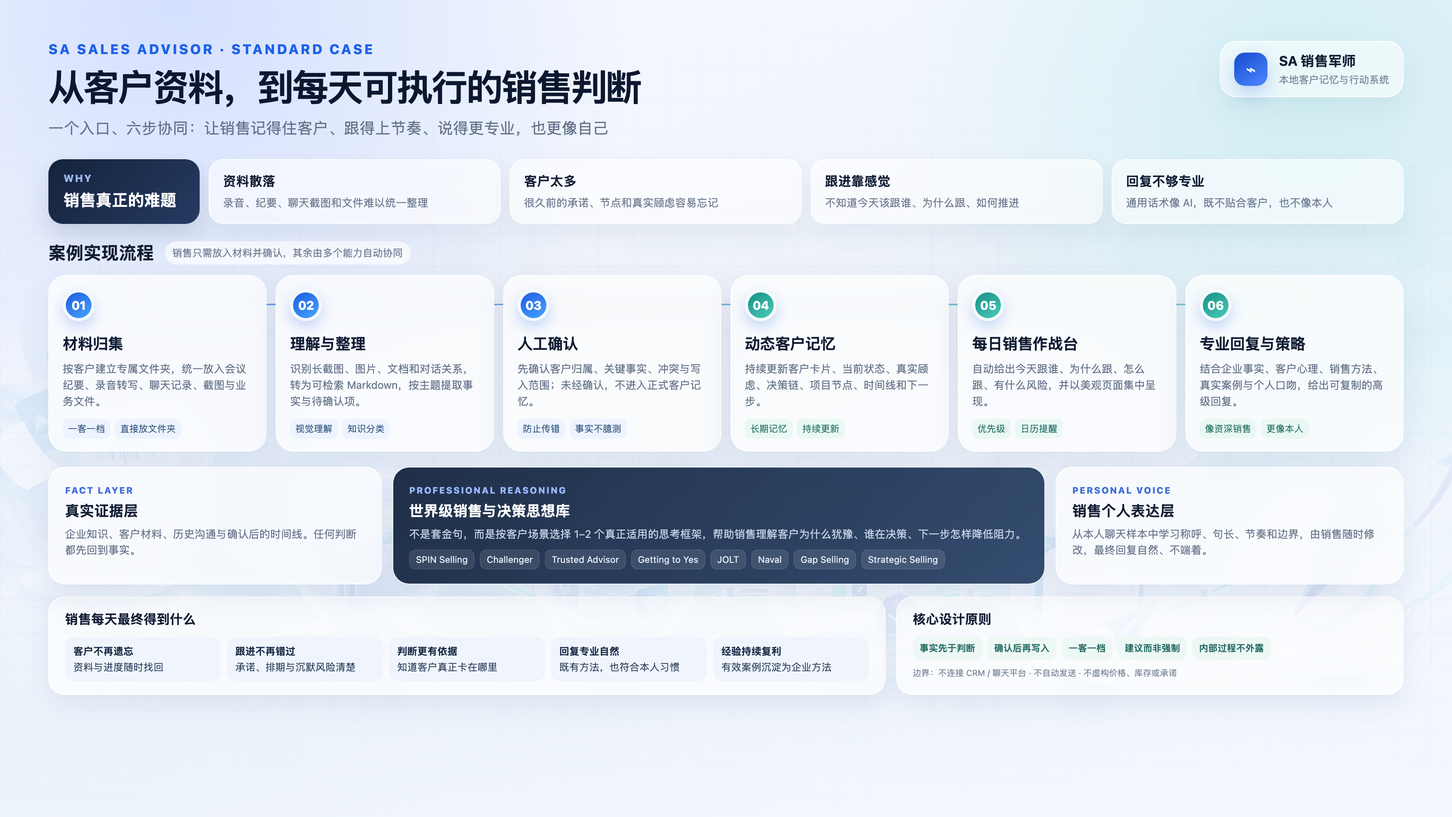
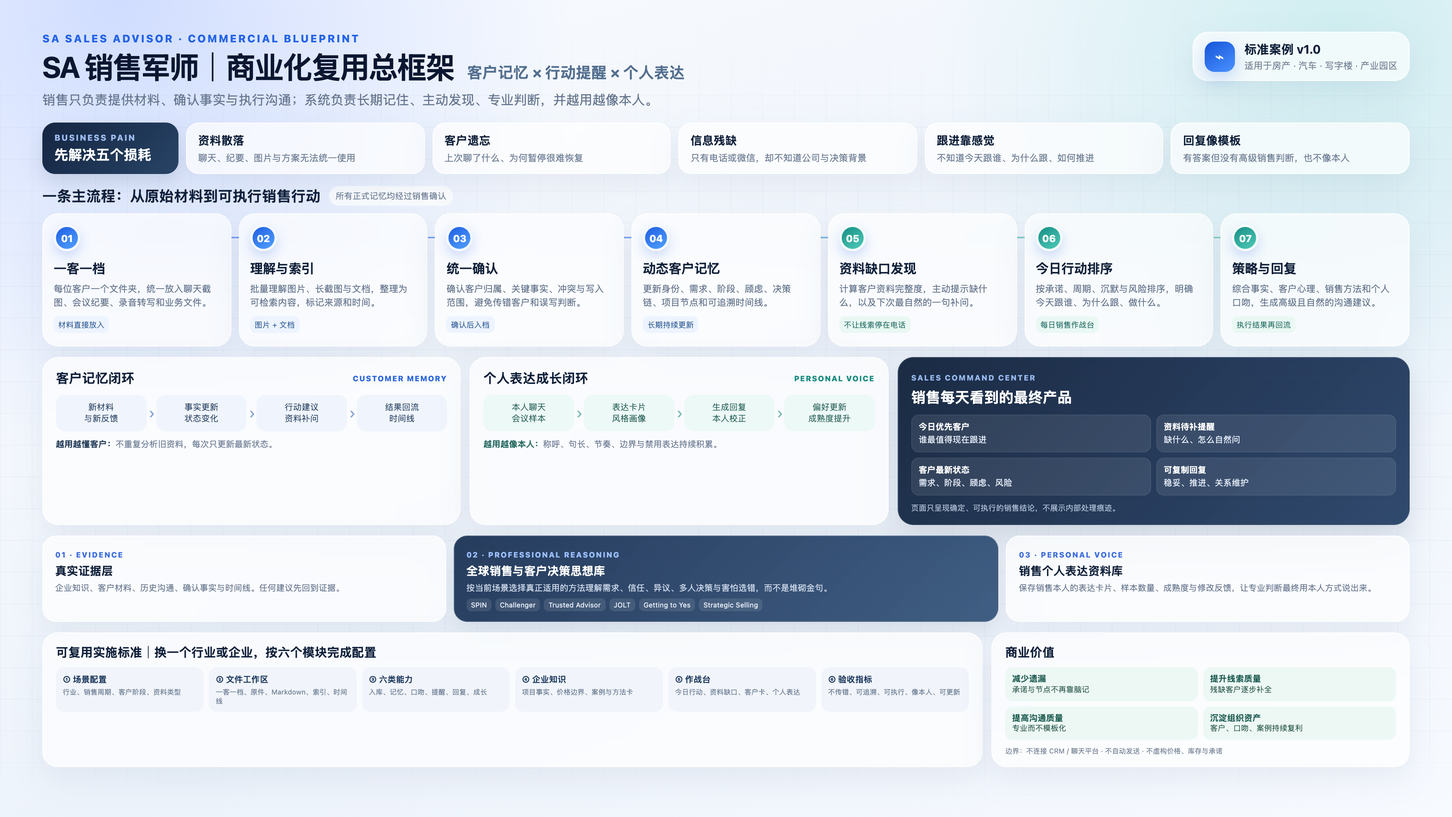
docs: upgrade commercial sales advisor blueprint

diff --git a/case-assets/SA销售军师-总框架图.html b/case-assets/SA销售军师-总框架图.html
@@ -3,80 +3,68 @@
 <head>
 <meta charset="utf-8">
 <meta name="viewport" content="width=device-width,initial-scale=1">
-<title>SA销售军师｜总框架图</title>
+<title>SA销售军师｜商业化复用总框架</title>
 <style>
-  *{box-sizing:border-box}html,body{margin:0;width:100%;height:100%;overflow:hidden}
-  body{font-family:-apple-system,BlinkMacSystemFont,"SF Pro Display","PingFang SC","Microsoft YaHei",sans-serif;color:#111d34;background:#eef3fb}
-  .page{position:relative;width:1920px;height:1080px;padding:54px 64px 46px;overflow:hidden;background:radial-gradient(circle at 12% 0%,rgba(109,147,255,.25),transparent 31%),radial-gradient(circle at 90% 10%,rgba(77,219,207,.18),transparent 27%),linear-gradient(155deg,#f8faff 0%,#edf3fb 53%,#f6f9ff 100%)}
-  .art{position:absolute;inset:270px -80px -120px;background:url('./framework-background.png') center bottom/cover no-repeat;opacity:.12;filter:saturate(.75)}
-  .mesh{position:absolute;inset:0;background-image:linear-gradient(rgba(71,94,132,.035) 1px,transparent 1px),linear-gradient(90deg,rgba(71,94,132,.035) 1px,transparent 1px);background-size:44px 44px;mask-image:linear-gradient(to bottom,transparent 2%,#000 22%,#000 80%,transparent)}
-  .content{position:relative;z-index:2}
-  .header{display:flex;justify-content:space-between;align-items:flex-start;margin-bottom:27px}
-  .eyebrow{font-size:18px;font-weight:800;letter-spacing:.16em;color:#1e61e8;margin-bottom:12px}
-  h1{font-size:48px;line-height:1.12;letter-spacing:-.045em;margin:0;color:#0d1830}
-  .subtitle{font-size:20px;color:#65738b;margin-top:14px;letter-spacing:.01em}
-  .brand{display:flex;align-items:center;gap:15px;padding:13px 18px;border:1px solid rgba(255,255,255,.9);border-radius:22px;background:rgba(255,255,255,.55);box-shadow:0 16px 40px rgba(50,78,124,.08);backdrop-filter:blur(20px)}
-  .brandmark{display:grid;place-items:center;width:44px;height:44px;border-radius:14px;background:linear-gradient(145deg,#164bce,#4e88ff);color:white;font-size:22px;box-shadow:0 10px 24px rgba(35,94,225,.25)}
-  .brand b{display:block;font-size:18px}.brand span{display:block;font-size:13px;color:#7a879c;margin-top:3px}
-  .problembar{display:grid;grid-template-columns:200px repeat(4,1fr);gap:12px;margin-bottom:22px}
-  .problemtitle{padding:17px 20px;border-radius:19px;color:white;background:linear-gradient(135deg,#15233c,#253b61);box-shadow:0 14px 30px rgba(25,44,76,.15)}
-  .problemtitle small{display:block;color:#9eb9ef;font-weight:800;letter-spacing:.12em}.problemtitle b{display:block;font-size:21px;margin-top:6px}
-  .problem{padding:16px 18px;border:1px solid rgba(255,255,255,.95);border-radius:19px;background:rgba(255,255,255,.58);box-shadow:0 13px 34px rgba(47,73,115,.07);backdrop-filter:blur(16px)}
-  .problem b{font-size:17px}.problem p{font-size:14px;line-height:1.5;color:#6d7990;margin:6px 0 0}
-  .flowtitle{display:flex;align-items:center;gap:14px;margin:0 0 13px}.flowtitle h2{font-size:23px;margin:0}.flowtitle span{font-size:13px;color:#728098;padding:6px 10px;border-radius:999px;background:rgba(255,255,255,.68)}
-  .flow{display:grid;grid-template-columns:repeat(6,1fr);gap:12px;position:relative;margin-bottom:20px}
-  .flow:before{content:"";position:absolute;left:7%;right:7%;top:38px;height:2px;background:linear-gradient(90deg,#2c67ee,#2bb7a9);opacity:.65}
-  .step{position:relative;min-height:220px;padding:18px 18px 16px;border:1px solid rgba(255,255,255,.95);border-radius:24px;background:rgba(255,255,255,.72);box-shadow:0 17px 42px rgba(41,70,117,.09);backdrop-filter:blur(18px)}
-  .stepnum{position:relative;display:grid;place-items:center;width:42px;height:42px;margin-bottom:16px;border-radius:50%;color:white;font-size:16px;font-weight:800;background:linear-gradient(145deg,#1d5be0,#48a5ff);box-shadow:0 8px 18px rgba(39,97,225,.24);border:4px solid rgba(255,255,255,.95)}
-  .step:nth-child(n+4) .stepnum{background:linear-gradient(145deg,#168f86,#4acbb9)}
-  .step h3{font-size:20px;margin:0 0 8px;letter-spacing:-.02em}.step p{font-size:14px;line-height:1.55;color:#65738a;margin:0}.tags{display:flex;flex-wrap:wrap;gap:6px;margin-top:12px}.tag{font-size:12px;color:#355681;border-radius:8px;padding:5px 7px;background:#edf4ff}.step:nth-child(n+4) .tag{color:#287166;background:#eaf8f4}
-  .engine{display:grid;grid-template-columns:1.15fr 2.25fr 1.2fr;gap:14px;margin-bottom:16px}
-  .enginecard{padding:19px 21px;border-radius:22px;border:1px solid rgba(255,255,255,.96);background:rgba(255,255,255,.67);box-shadow:0 15px 36px rgba(44,70,112,.08);backdrop-filter:blur(18px)}
-  .enginecard small{font-size:12px;font-weight:800;letter-spacing:.13em;color:#3d6cdc}.enginecard h3{font-size:19px;margin:6px 0 7px}.enginecard p{font-size:14px;line-height:1.5;color:#68758b;margin:0}.wisdom{background:linear-gradient(135deg,rgba(20,35,61,.94),rgba(36,62,99,.92));color:white}.wisdom small{color:#98b9ff}.wisdom h3{color:white}.wisdom p{color:#c5d2e5}.books{display:flex;flex-wrap:wrap;gap:7px;margin-top:10px}.book{padding:5px 8px;border-radius:8px;background:rgba(255,255,255,.1);font-size:12px;color:#e8effd;border:1px solid rgba(255,255,255,.08)}
-  .footergrid{display:grid;grid-template-columns:1.65fr 1fr;gap:14px}
-  .outcomes,.principles{padding:17px 21px;border-radius:21px;background:rgba(255,255,255,.67);border:1px solid rgba(255,255,255,.95);box-shadow:0 14px 32px rgba(41,67,108,.075)}
-  .outcomes h3,.principles h3{font-size:17px;margin:0 0 11px}.outcomelist{display:grid;grid-template-columns:repeat(5,1fr);gap:8px}.outcome{font-size:13px;line-height:1.4;padding:10px 11px;border-radius:12px;background:#f0f5fd;color:#30435f}.outcome b{display:block;color:#172944;margin-bottom:3px}
-  .principlelist{display:flex;flex-wrap:wrap;gap:7px}.principle{font-size:12px;padding:7px 9px;border-radius:9px;background:#edf8f4;color:#276c61;font-weight:700}.boundary{font-size:11px;color:#7b8799;margin-top:10px}
+*{box-sizing:border-box}html,body{margin:0;width:100%;height:100%;overflow:hidden}
+body{font-family:-apple-system,BlinkMacSystemFont,"SF Pro Display","PingFang SC","Microsoft YaHei",sans-serif;color:#10203a;background:#edf3fb}
+.page{position:relative;width:1920px;height:1080px;padding:42px 56px 38px;overflow:hidden;background:radial-gradient(circle at 8% 0%,rgba(86,130,255,.25),transparent 29%),radial-gradient(circle at 92% 4%,rgba(40,200,181,.16),transparent 26%),linear-gradient(155deg,#fafcff 0%,#edf3fb 58%,#f7faff 100%)}
+.page:before{content:"";position:absolute;inset:0;background-image:linear-gradient(rgba(54,82,124,.035) 1px,transparent 1px),linear-gradient(90deg,rgba(54,82,124,.035) 1px,transparent 1px);background-size:42px 42px;mask-image:linear-gradient(to bottom,transparent,#000 16%,#000 88%,transparent)}
+.content{position:relative;z-index:1}.glass{border:1px solid rgba(255,255,255,.92);background:rgba(255,255,255,.68);box-shadow:0 16px 40px rgba(42,68,110,.08);backdrop-filter:blur(20px)}
+.header{display:flex;justify-content:space-between;align-items:flex-start;margin-bottom:18px}.eyebrow{font-size:14px;font-weight:800;letter-spacing:.16em;color:#2464e6;margin-bottom:8px}.title{display:flex;align-items:baseline;gap:17px}.title h1{font-size:39px;line-height:1.1;letter-spacing:-.04em;margin:0;color:#0b1730}.title strong{font-size:20px;color:#54708f}.subtitle{font-size:17px;color:#66768e;margin-top:10px}.brand{display:flex;align-items:center;gap:13px;padding:11px 15px;border-radius:20px}.brandmark{display:grid;place-items:center;width:40px;height:40px;border-radius:13px;background:linear-gradient(145deg,#1654d8,#4a92ff);color:#fff;font-size:20px;box-shadow:0 9px 22px rgba(36,96,224,.24)}.brand b{display:block;font-size:16px}.brand span{display:block;font-size:12px;color:#7a879a;margin-top:2px}
+.painbar{display:grid;grid-template-columns:180px repeat(5,1fr);gap:10px;margin-bottom:16px}.pain-title{padding:13px 16px;border-radius:17px;color:#fff;background:linear-gradient(135deg,#142541,#284466);box-shadow:0 12px 26px rgba(26,48,82,.14)}.pain-title small{display:block;color:#9ebcf0;font-size:11px;font-weight:800;letter-spacing:.13em}.pain-title b{display:block;font-size:18px;margin-top:4px}.pain{padding:12px 15px;border-radius:17px}.pain b{font-size:15px}.pain p{font-size:12px;line-height:1.45;color:#718096;margin:4px 0 0}
+.section-title{display:flex;align-items:center;gap:11px;margin:0 0 10px}.section-title h2{font-size:19px;margin:0}.section-title span{font-size:11px;color:#6f7f96;padding:5px 9px;border-radius:999px;background:rgba(255,255,255,.72)}
+.flow{position:relative;display:grid;grid-template-columns:repeat(7,1fr);gap:10px;margin-bottom:14px}.flow:before{content:"";position:absolute;left:6%;right:6%;top:31px;height:2px;background:linear-gradient(90deg,#2866eb 0%,#2866eb 43%,#27ae9e 72%,#55b98b 100%);opacity:.58}.step{position:relative;min-height:176px;padding:14px 14px 12px;border-radius:21px}.stepnum{position:relative;display:grid;place-items:center;width:35px;height:35px;border-radius:50%;color:#fff;font-size:13px;font-weight:800;background:linear-gradient(145deg,#1d5de2,#53a2ff);box-shadow:0 7px 16px rgba(39,97,225,.22);border:3px solid rgba(255,255,255,.95);margin-bottom:11px}.step:nth-child(n+5) .stepnum{background:linear-gradient(145deg,#168e85,#50cbb8)}.step h3{font-size:17px;margin:0 0 6px;letter-spacing:-.02em}.step p{font-size:12px;line-height:1.5;color:#66768d;margin:0}.tag{display:inline-block;margin-top:9px;font-size:10px;color:#355f96;border-radius:7px;padding:4px 6px;background:#edf4ff}.step:nth-child(n+5) .tag{color:#287166;background:#eaf8f4}
+.middle{display:grid;grid-template-columns:1.9fr 1.15fr;gap:12px;margin-bottom:14px}.loops{display:grid;grid-template-columns:1fr 1fr;gap:12px}.loop{padding:15px 17px;border-radius:21px}.loop-head{display:flex;justify-content:space-between;align-items:center;margin-bottom:10px}.loop-head h3{font-size:17px;margin:0}.loop-head span{font-size:10px;font-weight:800;letter-spacing:.1em;color:#2b66dd}.loop.voice .loop-head span{color:#14897d}.track{display:grid;grid-template-columns:repeat(4,1fr);align-items:center;gap:13px}.node{position:relative;padding:9px 9px;border-radius:12px;background:#f0f5fd;font-size:11px;line-height:1.35;color:#314967;text-align:center}.voice .node{background:#edf9f6;color:#2f665f}.node:not(:last-child):after{content:"›";position:absolute;right:-11px;top:50%;transform:translateY(-52%);font-size:20px;color:#8aa5d5}.voice .node:not(:last-child):after{color:#79bcb3}.loop-note{font-size:11px;color:#738198;margin-top:9px}.loop-note b{color:#203854}.voice .loop-note b{color:#22665e}
+.command{padding:15px 17px;border-radius:21px;background:linear-gradient(135deg,rgba(18,34,59,.96),rgba(36,63,101,.94));color:#fff;border:1px solid rgba(255,255,255,.1);box-shadow:0 18px 40px rgba(25,47,78,.16)}.command small{font-size:10px;font-weight:800;letter-spacing:.13em;color:#99b9ef}.command h3{font-size:19px;margin:6px 0 10px}.outputs{display:grid;grid-template-columns:1fr 1fr;gap:7px}.output{padding:8px 9px;border-radius:10px;background:rgba(255,255,255,.09);font-size:11px;line-height:1.35;color:#e8effb;border:1px solid rgba(255,255,255,.06)}.output b{display:block;color:#fff;margin-bottom:2px}.command-foot{font-size:10px;color:#aebed5;margin-top:9px}
+.engines{display:grid;grid-template-columns:1fr 1.35fr 1fr;gap:10px;margin-bottom:14px}.engine{padding:13px 16px;border-radius:18px}.engine small{font-size:10px;font-weight:800;letter-spacing:.12em;color:#3d6ddd}.engine h3{font-size:15px;margin:4px 0 4px}.engine p{font-size:11px;line-height:1.4;color:#6b7990;margin:0}.engine.pro{background:linear-gradient(135deg,rgba(25,49,83,.94),rgba(46,79,119,.91));color:#fff;border:1px solid rgba(255,255,255,.12);box-shadow:0 14px 32px rgba(31,55,89,.13)}.engine.pro small{color:#9dc0ff}.engine.pro p{color:#ced9ea}.books{margin-top:7px;display:flex;gap:5px;flex-wrap:wrap}.book{font-size:9px;color:#eef4ff;padding:3px 6px;border-radius:6px;background:rgba(255,255,255,.1)}
+.bottom{display:grid;grid-template-columns:2.25fr 1fr;gap:12px}.implementation,.value{padding:14px 17px;border-radius:20px}.implementation h3,.value h3{font-size:16px;margin:0 0 9px}.impl-grid{display:grid;grid-template-columns:repeat(6,1fr);gap:7px}.impl{padding:8px 9px;border-radius:11px;background:#f1f5fb}.impl b{display:block;font-size:11px;color:#213b5f;margin-bottom:3px}.impl span{display:block;font-size:9px;line-height:1.35;color:#718096}.value-list{display:grid;grid-template-columns:1fr 1fr;gap:7px}.value-item{font-size:10px;line-height:1.35;color:#2d594f;padding:8px 9px;border-radius:10px;background:#edf8f4}.value-item b{display:block;font-size:11px;color:#19594e}.boundary{font-size:9px;color:#7b8798;margin-top:8px}
 </style>
 </head>
 <body>
-<main class="page">
-  <div class="art"></div><div class="mesh"></div>
-  <div class="content">
-    <header class="header">
-      <div><div class="eyebrow">SA SALES ADVISOR · STANDARD CASE</div><h1>从客户资料，到每天可执行的销售判断</h1><div class="subtitle">一个入口、六步协同：让销售记得住客户、跟得上节奏、说得更专业，也更像自己</div></div>
-      <div class="brand"><div class="brandmark">⌁</div><div><b>SA 销售军师</b><span>本地客户记忆与行动系统</span></div></div>
-    </header>
+<main class="page"><div class="content">
+  <header class="header">
+    <div><div class="eyebrow">SA SALES ADVISOR · COMMERCIAL BLUEPRINT</div><div class="title"><h1>SA 销售军师｜商业化复用总框架</h1><strong>客户记忆 × 行动提醒 × 个人表达</strong></div><div class="subtitle">销售只负责提供材料、确认事实与执行沟通；系统负责长期记住、主动发现、专业判断，并越用越像本人。</div></div>
+    <div class="brand glass"><div class="brandmark">⌁</div><div><b>标准案例 v1.0</b><span>适用于房产 · 汽车 · 写字楼 · 产业园区</span></div></div>
+  </header>
 
-    <section class="problembar">
-      <div class="problemtitle"><small>WHY</small><b>销售真正的难题</b></div>
-      <div class="problem"><b>资料散落</b><p>录音、纪要、聊天截图和文件难以统一整理</p></div>
-      <div class="problem"><b>客户太多</b><p>很久前的承诺、节点和真实顾虑容易忘记</p></div>
-      <div class="problem"><b>跟进靠感觉</b><p>不知道今天该跟谁、为什么跟、如何推进</p></div>
-      <div class="problem"><b>回复不够专业</b><p>通用话术像 AI，既不贴合客户，也不像本人</p></div>
-    </section>
+  <section class="painbar">
+    <div class="pain-title"><small>BUSINESS PAIN</small><b>先解决五个损耗</b></div>
+    <div class="pain glass"><b>资料散落</b><p>聊天、纪要、图片与方案无法统一使用</p></div>
+    <div class="pain glass"><b>客户遗忘</b><p>上次聊了什么、为何暂停很难恢复</p></div>
+    <div class="pain glass"><b>信息残缺</b><p>只有电话或微信，却不知道公司与决策背景</p></div>
+    <div class="pain glass"><b>跟进靠感觉</b><p>不知道今天跟谁、为什么跟、如何推进</p></div>
+    <div class="pain glass"><b>回复像模板</b><p>有答案但没有高级销售判断，也不像本人</p></div>
+  </section>
 
-    <div class="flowtitle"><h2>案例实现流程</h2><span>销售只需放入材料并确认，其余由多个能力自动协同</span></div>
-    <section class="flow">
-      <article class="step"><div class="stepnum">01</div><h3>材料归集</h3><p>按客户建立专属文件夹，统一放入会议纪要、录音转写、聊天记录、截图与业务文件。</p><div class="tags"><span class="tag">一客一档</span><span class="tag">直接放文件夹</span></div></article>
-      <article class="step"><div class="stepnum">02</div><h3>理解与整理</h3><p>识别长截图、图片、文档和对话关系，转为可检索 Markdown，按主题提取事实与待确认项。</p><div class="tags"><span class="tag">视觉理解</span><span class="tag">知识分类</span></div></article>
-      <article class="step"><div class="stepnum">03</div><h3>人工确认</h3><p>先确认客户归属、关键事实、冲突与写入范围；未经确认，不进入正式客户记忆。</p><div class="tags"><span class="tag">防止传错</span><span class="tag">事实不臆测</span></div></article>
-      <article class="step"><div class="stepnum">04</div><h3>动态客户记忆</h3><p>持续更新客户卡片、当前状态、真实顾虑、决策链、项目节点、时间线和下一步。</p><div class="tags"><span class="tag">长期记忆</span><span class="tag">持续更新</span></div></article>
-      <article class="step"><div class="stepnum">05</div><h3>每日销售作战台</h3><p>自动给出今天跟谁、为什么跟、怎么跟、有什么风险，并以美观页面集中呈现。</p><div class="tags"><span class="tag">优先级</span><span class="tag">日历提醒</span></div></article>
-      <article class="step"><div class="stepnum">06</div><h3>专业回复与策略</h3><p>结合企业事实、客户心理、销售方法、真实案例与个人口吻，给出可复制的高级回复。</p><div class="tags"><span class="tag">像资深销售</span><span class="tag">更像本人</span></div></article>
-    </section>
+  <div class="section-title"><h2>一条主流程：从原始材料到可执行销售行动</h2><span>所有正式记忆均经过销售确认</span></div>
+  <section class="flow">
+    <article class="step glass"><div class="stepnum">01</div><h3>一客一档</h3><p>每位客户一个文件夹，统一放入聊天截图、会议纪要、录音转写和业务文件。</p><span class="tag">材料直接放入</span></article>
+    <article class="step glass"><div class="stepnum">02</div><h3>理解与索引</h3><p>批量理解图片、长截图与文档，整理为可检索内容，标记来源和时间。</p><span class="tag">图片 + 文档</span></article>
+    <article class="step glass"><div class="stepnum">03</div><h3>统一确认</h3><p>确认客户归属、关键事实、冲突与写入范围，避免传错客户和误写判断。</p><span class="tag">确认后入档</span></article>
+    <article class="step glass"><div class="stepnum">04</div><h3>动态客户记忆</h3><p>更新身份、需求、阶段、顾虑、决策链、项目节点和可追溯时间线。</p><span class="tag">长期持续更新</span></article>
+    <article class="step glass"><div class="stepnum">05</div><h3>资料缺口发现</h3><p>计算客户资料完整度，主动提示缺什么，以及下次最自然的一句补问。</p><span class="tag">不让线索停在电话</span></article>
+    <article class="step glass"><div class="stepnum">06</div><h3>今日行动排序</h3><p>按承诺、周期、沉默与风险排序，明确今天跟谁、为什么跟、做什么。</p><span class="tag">每日销售作战台</span></article>
+    <article class="step glass"><div class="stepnum">07</div><h3>策略与回复</h3><p>综合事实、客户心理、销售方法和个人口吻，生成高级且自然的沟通建议。</p><span class="tag">执行结果再回流</span></article>
+  </section>
 
-    <section class="engine">
-      <article class="enginecard"><small>FACT LAYER</small><h3>真实证据层</h3><p>企业知识、客户材料、历史沟通与确认后的时间线。任何判断都先回到事实。</p></article>
-      <article class="enginecard wisdom"><small>PROFESSIONAL REASONING</small><h3>世界级销售与决策思想库</h3><p>不是套金句，而是按客户场景选择 1–2 个真正适用的思考框架，帮助销售理解客户为什么犹豫、谁在决策、下一步怎样降低阻力。</p><div class="books"><span class="book">SPIN Selling</span><span class="book">Challenger</span><span class="book">Trusted Advisor</span><span class="book">Getting to Yes</span><span class="book">JOLT</span><span class="book">Naval</span><span class="book">Gap Selling</span><span class="book">Strategic Selling</span></div></article>
-      <article class="enginecard"><small>PERSONAL VOICE</small><h3>销售个人表达层</h3><p>从本人聊天样本中学习称呼、句长、节奏和边界，由销售随时修改，最终回复自然、不端着。</p></article>
-    </section>
+  <section class="middle">
+    <div class="loops">
+      <article class="loop glass"><div class="loop-head"><h3>客户记忆闭环</h3><span>CUSTOMER MEMORY</span></div><div class="track"><div class="node">新材料<br>与新反馈</div><div class="node">事实更新<br>状态变化</div><div class="node">行动建议<br>资料补问</div><div class="node">结果回流<br>时间线</div></div><div class="loop-note"><b>越用越懂客户：</b>不重复分析旧资料，每次只更新最新状态。</div></article>
+      <article class="loop voice glass"><div class="loop-head"><h3>个人表达成长闭环</h3><span>PERSONAL VOICE</span></div><div class="track"><div class="node">本人聊天<br>会议样本</div><div class="node">表达卡片<br>风格画像</div><div class="node">生成回复<br>本人校正</div><div class="node">偏好更新<br>成熟度提升</div></div><div class="loop-note"><b>越用越像本人：</b>称呼、句长、节奏、边界与禁用表达持续积累。</div></article>
+    </div>
+    <article class="command"><small>SALES COMMAND CENTER</small><h3>销售每天看到的最终产品</h3><div class="outputs"><div class="output"><b>今日优先客户</b>谁最值得现在跟进</div><div class="output"><b>资料待补提醒</b>缺什么、怎么自然问</div><div class="output"><b>客户最新状态</b>需求、阶段、顾虑、风险</div><div class="output"><b>可复制回复</b>稳妥、推进、关系维护</div></div><div class="command-foot">页面只呈现确定、可执行的销售结论，不展示内部处理痕迹。</div></article>
+  </section>
 
-    <section class="footergrid">
-      <article class="outcomes"><h3>销售每天最终得到什么</h3><div class="outcomelist"><div class="outcome"><b>客户不再遗忘</b>资料与进度随时找回</div><div class="outcome"><b>跟进不再错过</b>承诺、排期与沉默风险清楚</div><div class="outcome"><b>判断更有依据</b>知道客户真正卡在哪里</div><div class="outcome"><b>回复专业自然</b>既有方法，也符合本人习惯</div><div class="outcome"><b>经验持续复利</b>有效案例沉淀为企业方法</div></div></article>
-      <article class="principles"><h3>核心设计原则</h3><div class="principlelist"><span class="principle">事实先于判断</span><span class="principle">确认后再写入</span><span class="principle">一客一档</span><span class="principle">建议而非强制</span><span class="principle">内部过程不外露</span></div><div class="boundary">边界：不连接 CRM / 聊天平台 · 不自动发送 · 不虚构价格、库存或承诺</div></article>
-    </section>
-  </div>
-</main>
+  <section class="engines">
+    <article class="engine glass"><small>01 · EVIDENCE</small><h3>真实证据层</h3><p>企业知识、客户材料、历史沟通、确认事实与时间线。任何建议先回到证据。</p></article>
+    <article class="engine pro"><small>02 · PROFESSIONAL REASONING</small><h3>全球销售与客户决策思想库</h3><p>按当前场景选择真正适用的方法理解需求、信任、异议、多人决策与害怕选错，而不是堆砌金句。</p><div class="books"><span class="book">SPIN</span><span class="book">Challenger</span><span class="book">Trusted Advisor</span><span class="book">JOLT</span><span class="book">Getting to Yes</span><span class="book">Strategic Selling</span></div></article>
+    <article class="engine glass"><small>03 · PERSONAL VOICE</small><h3>销售个人表达资料库</h3><p>保存销售本人的表达卡片、样本数量、成熟度与修改反馈，让专业判断最终用本人方式说出来。</p></article>
+  </section>
+
+  <section class="bottom">
+    <article class="implementation glass"><h3>可复用实施标准｜换一个行业或企业，按六个模块完成配置</h3><div class="impl-grid"><div class="impl"><b>① 场景配置</b><span>行业、销售周期、客户阶段、资料类型</span></div><div class="impl"><b>② 文件工作区</b><span>一客一档、原件、Markdown、索引、时间线</span></div><div class="impl"><b>③ 六类能力</b><span>入库、记忆、口吻、提醒、回复、成长</span></div><div class="impl"><b>④ 企业知识</b><span>项目事实、价格边界、案例与方法卡</span></div><div class="impl"><b>⑤ 作战台</b><span>今日行动、资料缺口、客户卡、个人表达</span></div><div class="impl"><b>⑥ 验收指标</b><span>不传错、可追溯、可执行、像本人、可更新</span></div></div></article>
+    <article class="value glass"><h3>商业价值</h3><div class="value-list"><div class="value-item"><b>减少遗漏</b>承诺与节点不再靠脑记</div><div class="value-item"><b>提升线索质量</b>残缺客户逐步补全</div><div class="value-item"><b>提高沟通质量</b>专业而不模板化</div><div class="value-item"><b>沉淀组织资产</b>客户、口吻、案例持续复利</div></div><div class="boundary">边界：不连接 CRM / 聊天平台 · 不自动发送 · 不虚构价格、库存与承诺</div></article>
+  </section>
+</div></main>
 </body>
 </html>

diff --git a/case-assets/SA销售军师-商业化实施蓝图.md b/case-assets/SA销售军师-商业化实施蓝图.md
@@ -1,0 +1,213 @@
+# SA 销售军师｜商业化实施蓝图
+
+## 1. 产品定位
+
+SA 销售军师是一套面向长周期顾问式销售的“客户记忆与行动系统”。它不替销售自动发消息，而是把分散材料转化为持续更新的客户记忆，主动发现资料缺口和跟进节点，并结合专业销售方法与销售本人的表达习惯，给出每天可执行的建议。
+
+适用场景：房产、汽车、写字楼、产业园区、企业服务、招商、工程项目等高客单、长周期、多人决策的销售业务。
+
+## 2. 商业化标准架构
+
+### 2.1 三类输入
+
+1. **客户材料**：聊天截图、长截图、会议纪要、录音转写、PDF、Word、表格、报价与项目方案。
+2. **企业知识**：项目事实、产品边界、价格政策、常见异议、合法使用的培训资料、脱敏成交案例。
+3. **销售个人样本**：销售本人发出的聊天内容、可区分说话人的会议表达、本人主动修改过的回复。
+
+### 2.2 七步业务主流程
+
+1. **一客一档**：按客户建立专属文件夹，原始材料只追加、不覆盖。
+2. **理解与索引**：图片和长截图优先使用视觉模型理解；普通文档转 Markdown；所有产物记录来源、时间与哈希。
+3. **统一确认**：销售确认客户归属、关键事实、冲突、敏感信息与写入范围。
+4. **动态客户记忆**：更新身份、需求、阶段、顾虑、决策链、项目节点、下一步和时间线。
+5. **资料缺口发现**：计算资料完整度，输出缺失字段和下一次最自然的补问建议。
+6. **今日行动排序**：依据承诺到期、跟进日期、沉默周期、风险和证据强度生成优先级。
+7. **策略与回复**：先核对事实，再分析客户决策，最后按销售个人表达卡生成可复制回复；执行结果回流客户记忆。
+
+### 2.3 两个持续增长闭环
+
+#### 客户记忆闭环
+
+`新材料与反馈 → 事实/状态更新 → 资料补问与行动建议 → 沟通结果回流 → 更新时间线`
+
+验收要求：不重复要求上传旧材料；新信息必须进入正确客户；历史事实可追溯；冲突不静默覆盖。
+
+#### 个人表达成长闭环
+
+`本人样本 → 表达卡片 → 按本人风格生成 → 本人校正 → 更新偏好与成熟度`
+
+表达卡至少包含：
+
+- 整体气质；
+- 常用称呼；
+- 句长与消息分段；
+- 常用开场、推进和收尾方式；
+- 面对异议时的表达习惯；
+- 禁止表达和不符合本人的措辞；
+- 样本数量、最近更新时间、画像成熟度。
+
+学习边界：只有销售明确提供或确认的本人表达才能计入口吻资料库；不能把客户说的话误学成销售口吻。
+
+## 3. 客户资料完整度标准
+
+### 3.1 建议字段
+
+- 来源渠道；
+- 姓名与联系方式；
+- 公司全称；
+- 职位与角色；
+- 所属行业；
+- 核心需求；
+- 预算范围；
+- 项目周期；
+- 决策关系；
+- 当前阶段；
+- 下一次跟进时间。
+
+### 3.2 展示规则
+
+作战台不只显示“缺少公司信息”，还应同时呈现：
+
+1. 当前资料完整度；
+2. 最重要的 3–4 个缺口；
+3. 为什么这些信息会影响推进；
+4. 下次沟通中最自然的一句补问；
+5. 已确认的信息不重复追问。
+
+示例：抖音主页线索只有电话时，不要求销售一次问完全部资料。系统可先建议：“您这次主要是自己使用，还是代表公司在了解？我好按实际用途给您准备资料。”
+
+## 4. 专业销售判断结构
+
+每次给出回复或推进建议时，固定按照以下顺序：
+
+1. **企业事实**：价格、政策、库存、交付和承诺边界；
+2. **客户事实**：客户原话、最近状态、历史时间线和已确认资料；
+3. **客户决策判断**：需求是否清晰、信任是否建立、决策链是否完整、是否害怕选错；
+4. **方法选择**：只选 1–2 个与场景相关的方法框架；
+5. **行动设计**：本次沟通唯一目标、应提供的证据、希望客户完成的下一步；
+6. **个人表达改写**：按销售本人的称呼、句长、节奏与边界形成最终话术。
+
+推荐方法库包括：SPIN Selling、The Challenger Sale、The Trusted Advisor、The JOLT Effect、Getting to Yes、Strategic Selling、Gap Selling，以及企业合法拥有的内部方法和脱敏案例。
+
+## 5. 作战台产品信息架构
+
+### 今日行动
+
+- 今日优先客户；
+- 为什么现在跟；
+- 本次唯一目标；
+- 下一步动作；
+- 风险与证据；
+- 可复制回复。
+
+### 客户资料
+
+- 客户卡片；
+- 最新状态；
+- 资料完整度；
+- 资料待补；
+- 下一句补问；
+- 历史时间线。
+
+### 个人表达
+
+- 表达画像成熟度；
+- 已学习的聊天/会议样本数量；
+- 整体气质与语言特征；
+- 称呼、节奏、跟进与异议习惯；
+- 禁止表达；
+- 下一步建议补充的样本类型。
+
+### 成长建议
+
+- 与当前真实客户相关的一个思考角度；
+- 一个可以尝试的销售动作；
+- 一个值得复盘的问题；
+- 可选的延伸阅读链接。
+
+成长建议是可选启发，不设置强制学习、考试或打卡。
+
+## 6. 可复制的文件工作区
+
+```text
+SA销售工作区/
+├── config/
+│   ├── company-profile.md
+│   ├── sales-soul.md
+│   └── followup-policy.md
+├── inbox/
+│   └── 待处理材料/
+├── customers/
+│   └── cus-000001-客户代号/
+│       ├── customer.json
+│       ├── customer-card.md
+│       ├── timeline.md
+│       ├── materials/
+│       └── originals/
+├── indexes/
+│   └── customers.json
+├── knowledge/
+│   ├── enterprise/
+│   ├── methods/
+│   └── cases/
+└── dashboard/
+    └── index.html
+```
+
+## 7. 技能协同标准
+
+| 能力 | 输入 | 核心处理 | 输出 |
+|---|---|---|---|
+| 材料入库 | 客户文件夹 | 识别、转写、索引、确认 | 可追溯材料记录 |
+| 客户记忆 | 已确认新事实 | 合并、冲突检查、时间线 | 客户卡与最新状态 |
+| 个人表达 | 本人表达样本 | 风格提炼、反馈更新 | `sales-soul.md` |
+| 每日跟进 | 客户索引与节点 | 优先级、缺口、风险 | HTML 销售作战台 |
+| 回复起草 | 客户状态与目标 | 事实核对、决策分析、口吻改写 | 三类可复制回复 |
+| 销售成长 | 实际沟通结果 | 行为复盘、方法映射 | 可选成长建议 |
+
+## 8. 行业复制步骤
+
+1. 明确行业销售周期、客户阶段与核心资料类型；
+2. 定义客户资料完整度字段和跟进优先级规则；
+3. 导入企业事实、产品边界、常见异议和脱敏案例；
+4. 配置客户文件夹与索引结构；
+5. 采集 20–50 条销售本人有效表达，建立初始表达卡；
+6. 用 3 个典型客户完成端到端试跑；
+7. 按“事实正确、归属正确、提醒有效、回复像本人、页面可读”五项验收；
+8. 设置每日作战台生成任务，再逐步扩大客户范围。
+
+## 9. 商业化验收清单
+
+- [ ] 能一次处理同一客户文件夹中的多类材料；
+- [ ] 图片、长截图和文档均有稳定识别路径与降级方案；
+- [ ] 客户归属和正式写入前有统一确认；
+- [ ] 新材料不会传错客户，历史记录不被覆盖；
+- [ ] 客户卡能展示资料完整度、主要缺口和自然补问；
+- [ ] 作战台能回答“今天跟谁、为什么跟、做什么、有什么风险”；
+- [ ] 回复引用已确认事实，不虚构价格、库存或承诺；
+- [ ] 个人表达资料库能随本人反馈持续更新；
+- [ ] 面向销售的页面不出现模型、OCR、文件路径或内部处理措辞；
+- [ ] 不连接 CRM/聊天平台，不自动向客户发送信息；
+- [ ] Windows 与 macOS 均可安装，运行时依赖和失败提示清晰；
+- [ ] 覆盖升级不删除客户工作区和历史资料。
+
+## 10. 标准演示脚本
+
+1. 展示一个只含电话、来源为抖音主页的新线索，说明系统会主动标记资料待补；
+2. 把聊天截图、会议纪要和项目文件放进该客户文件夹；
+3. 展示材料理解结果和统一确认卡；
+4. 确认后展示客户卡、资料完整度和时间线的变化；
+5. 打开作战台，展示今天为什么要跟、下一句如何自然补问；
+6. 展示“个人表达”页面，说明系统如何积累销售口吻；
+7. 用同一客户分别生成通用回复和本人风格回复，展示差异；
+8. 最后展示沟通结果回流后，客户记忆与表达画像如何继续增长。
+
+## 11. 产品边界
+
+- 不连接 CRM、微信或企微；
+- 不自动发送消息；
+- 未经销售确认，不写入正式客户档案；
+- 不把推测当作客户事实；
+- 不虚构价格、优惠、库存、交付和他人承诺；
+- 不把受版权保护的销售书籍全文打包进插件，只保存原创方法卡、用户合法资料和公开链接；
+- 客户原始材料保存在企业自己的本地工作区。
